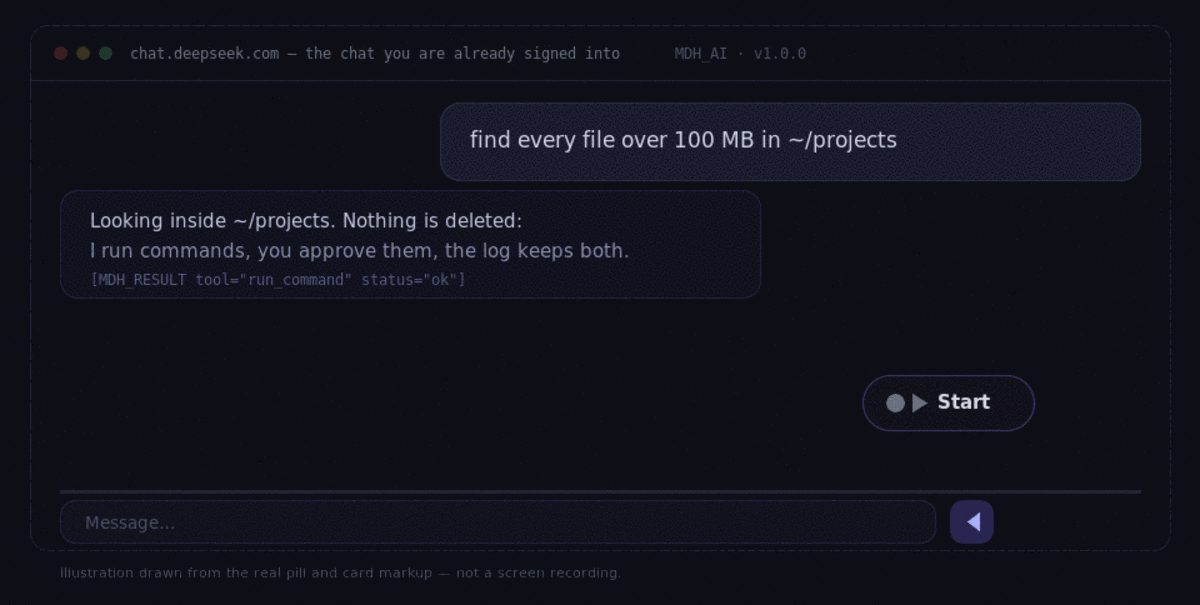
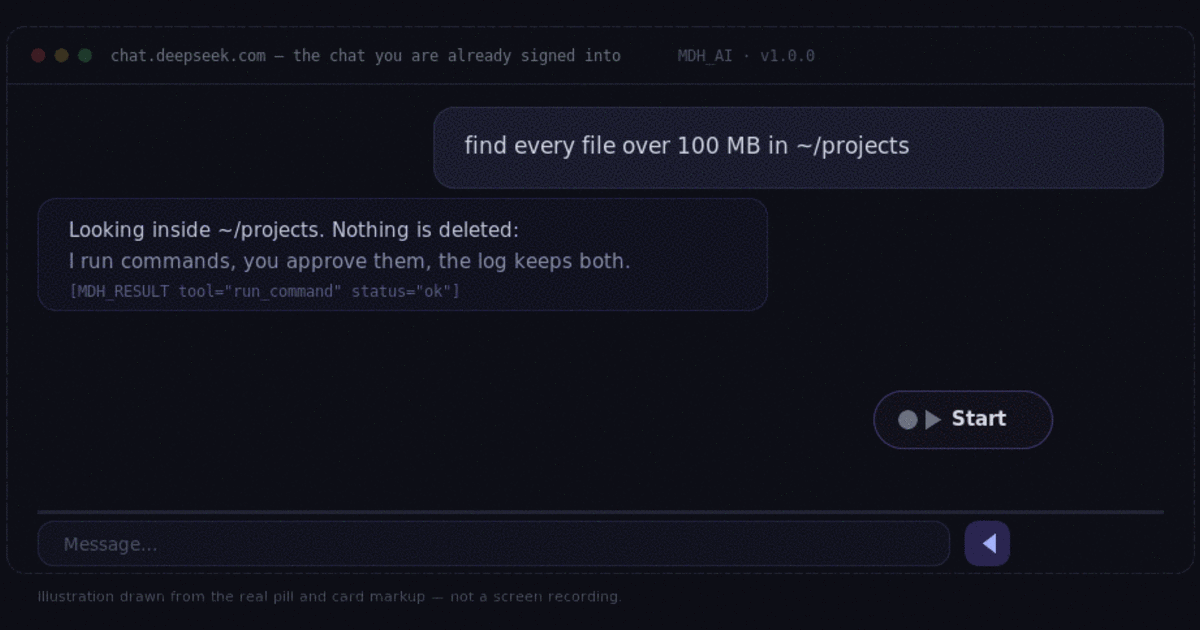
site: put the repository art on the landing page
npm run art also writes site/hero.gif, site/approval-card.png and
site/og.png, so the page shows the same pictures the README does without
asking another host for one. The small loop is scaled frame by frame
before stacking; re-optimising the finished GIF coalesced it back into
full frames and produced 362 KB for a 760 px image.

Two real bugs fell out of wiring it up:

- the link preview was 1200x605, not 1200x630: resized to the width and
  then asked to crop a box it could not fill, so every scraper re-cropped
  it from wherever it liked.
- the README still advertised 283 tests and 11,300 source lines. It says
  290 and 11,333 now, and the release checklist asks a human to check
  that number, because no test can count the suite it is part of.

Site copy: the approval card lists all three lifetimes, and the page
says fifteen builtin tools, which is how many there are.

diff --git a/site/index.html b/site/index.html
@@ -36,7 +36,7 @@
   "featureList": [
     "Eight AI platforms: ChatGPT, Claude, Gemini, DeepSeek, Kimi, Qwen, GLM, Grok",
     "Chrome, Brave and Firefox",
-    "Thirteen builtin Linux tools and any MCP server",
+    "Fifteen builtin Linux tools and any MCP server",
     "Approval card on every write and every command",
     "Path allowlist with symlink resolution",
     "Hash-chained audit log"
@@ -130,6 +130,9 @@
   @media (max-width: 760px) { .two { grid-template-columns: 1fr; } }
   @media (prefers-reduced-motion: reduce) { html { scroll-behavior: auto; } }
 
+  .shot { margin: 26px 0 0; }
+  .shot img { width: 100%; height: auto; display: block; border: 1px solid #23233a; border-radius: 12px; }
+  .shot figcaption { margin-top: 10px; font-size: 12px; color: #6b7280; }
   .patch-wrap { display: grid; grid-template-columns: minmax(220px, 320px) 1fr; gap: 28px; align-items: center; margin-top: 18px; }
   .patch { width: 100%; height: auto; max-width: 320px; display: block; }
   .patch text { font-variant-numeric: tabular-nums; }
@@ -150,6 +153,11 @@
     <a class="btn" href="https://github.com/MDHojayfa/MDH_AI/blob/main/docs/MANUAL.md">Read the manual</a>
   </div>
   <p class="meta">Linux · Chrome 116+ · Brave · Firefox 140+ · MIT</p>
+  <figure class="shot">
+    <img src="hero.gif" width="760" height="383" alt="Five frames of the chat page: the model asks for a shell command, the approval card appears on the chat page, you allow it once, the command runs, and the audit line is written.">
+    <figcaption>Drawn from the extension's own markup, frame by frame — an illustration of the flow, not a screen
+      recording.</figcaption>
+  </figure>
 </header>
 
 <main class="wrap">
@@ -171,7 +179,7 @@
 
   <section id="what">
     <h2>What it can actually do</h2>
-    <p class="sub">Thirteen builtin tools on this machine, plus every MCP server you already run.</p>
+    <p class="sub">Fifteen builtin tools on this machine, plus every MCP server you already run.</p>
     <div class="grid">
       <div class="card">
         <h3>Files</h3>
@@ -191,7 +199,8 @@
       <div class="card">
         <h3>Approval</h3>
         <p>Every write and every command stops at a card that shows the parsed request, not the model's prose.
-          Deny, allow once, or allow for the session.</p>
+          Deny, allow once, or allow for the rest of the run, the session, or the site — the longest of the three
+          is the one you have to pick on purpose.</p>
       </div>
       <div class="card">
         <h3>Guards</h3>

diff --git a/CHANGELOG.md b/CHANGELOG.md
@@ -6,11 +6,18 @@ Format: [Keep a Changelog](https://keepachangelog.com/). Versioning: [SemVer](ht
 
 First release. One script, one extension, eight platforms, no API key.
 
-**What ships:** 288 tests · `release/mdh-ai-{chrome,firefox}-1.0.0.zip` · 0 runtime dependencies ·
+**What ships:** 290 tests · `release/mdh-ai-{chrome,firefox}-1.0.0.zip` · 0 runtime dependencies ·
 `docs/RELEASE.md` is the checklist that was followed.
 
 ### Added
 
+- **The landing page carries the same art, from its own folder.** `npm run art` now also writes `site/hero.gif`
+  (760 px, 88 KB), `site/approval-card.png` and `site/og.png`, so the page never requests an image from another
+  host. The loop sits under the headline with a caption saying what it is, and the approval card's copy on the page
+  lists all three lifetimes instead of only the session.
+- **The link preview was the wrong shape.** `assets/social.png` was 1200×605 — resized to fit the width and then
+  asked to crop to a 630-tall box it could not fill — so every scraper re-cropped it from wherever it liked. It is
+  generated at exactly 1200×630 now, and both art tests and the site test check the size.
 - **`npm run verify` works from a clean checkout.** It weighed the source before building the zip, so the
   README's KB quote had nothing to compare against and the whole run failed with "A budget is broken". The order
   is now build → package → weigh → test, and an unbuilt bundle is reported as unmeasured rather than over budget.
@@ -190,7 +197,7 @@ First release. One script, one extension, eight platforms, no API key.
   Firefox, the permission justification table a reviewer asks for, and a list of claims not to publish.
 - **A runtime switch for the chatter** (`Advanced → Mission chatter`) that persists per profile and hides
   only the jokes — the issue strip, the share button and every real status line stay put.
-- **288 tests**, a build that fails on manifest invariants, and `web-ext lint` at zero errors.
+- **290 tests**, a build that fails on manifest invariants, and `web-ext lint` at zero errors.
 
 ### Security
 

diff --git a/README.md b/README.md
@@ -9,7 +9,7 @@ The chat you are already signed into can read, write, run and search on your Lin
 one approval per step, one hash-chained log, no API key anywhere.</p>
 
 <p>
-<img alt="tests" src="https://img.shields.io/badge/tests-283%20passing-34d399?style=flat-square">
+<img alt="tests" src="https://img.shields.io/badge/tests-290%20passing-34d399?style=flat-square">
 <img alt="runtime dependencies" src="https://img.shields.io/badge/runtime%20dependencies-0-6d5efc?style=flat-square">
 <img alt="extension size" src="https://img.shields.io/badge/extension-140%20KB-8b5cf6?style=flat-square">
 <img alt="Chrome and Brave" src="https://img.shields.io/badge/Chrome%20%7C%20Brave-116%2B-4285F4?style=flat-square">
@@ -121,8 +121,8 @@ not marketing: [`docs/KNOWN-LIMITS.md`](docs/KNOWN-LIMITS.md).
 |---|---|
 | extension | **140 KB** zipped · 401 KB unpacked · 40 files |
 | host | **~70 ms** to ready · **55 MB** resident · 0 npm dependencies |
-| source | 11,300 lines, tests included |
-| tests | **283**, run with `node --test tests/*.test.mjs` |
+| source | 11,333 lines, tests included |
+| tests | **290**, run with `node --test tests/*.test.mjs` |
 | budgets | 300 KB zip · 80 MB RSS · 1,500 ms startup · 0 dependencies — a build fails when one is crossed |
 
 `npm run weigh` prints that table on your machine, compares the prose in the docs against the real artifact, and

diff --git a/docs/RELEASE.md b/docs/RELEASE.md
@@ -20,6 +20,7 @@ The README art is optional and needs ImageMagick, so it is not in `verify`:
 
 ```bash
 npm run art        # assets/hero.gif, terminal.gif, approval-card.png, social.png
+                   # + site/hero.gif, site/approval-card.png, site/og.png
 ```
 
 Regenerate it when the pill's labels or the install output change, so the illustrations keep matching the product
@@ -30,7 +31,7 @@ Expected shape of a good run:
 
 | Check | Where it comes from | Expected |
 |---|---|---|
-| tests | `node --test tests/*.test.mjs` | all passing, ~288 |
+| tests | `node --test tests/*.test.mjs` | all passing, ~290 |
 | tiers | `npm run build` | `dist/chrome`, `dist/firefox`, manifest rules |
 | bundles | `npm run package` | `release/mdh-ai-{chrome,firefox}-1.0.0.zip` |
 | lint | `npx web-ext lint` | 0 errors, 1 known warning |
@@ -72,6 +73,8 @@ source of truth for support questions, and the README links it.
 - [ ] a deliberate failure produces a report you would be willing to paste in public
 - [ ] the privacy page and `docs/SECURITY.md` still describe the same product
 - [ ] `CHANGELOG.md` top section matches the tag
+- [ ] the test count in the README badge, the numbers table and `CHANGELOG.md` matches what `npm test` printed —
+      nothing checks this one automatically, and it has drifted twice
 
 ## 4. If something is wrong after release
 

diff --git a/docs/MEDIA.md b/docs/MEDIA.md
@@ -44,6 +44,11 @@ states and buttons the extension renders.
 | `assets/approval-card.png` | the approval card at 960 px: command, folder, reason, three lifetimes | README features |
 | `assets/social.png` | 1200×630 link-preview card, cropped from frame 1 | Open Graph / link unfurls |
 
+`npm run art` also writes three copies for the landing page, so `site/` never asks another host for an image:
+`site/hero.gif` (760 px, 88 KB), `site/approval-card.png` (the still, unchanged) and `site/og.png` (the social card,
+under the name `site/index.html` already points its `og:image` at). `tests/art.test.mjs` checks that the page uses
+them, that the loop stays under 150 KB, and that the Open Graph image is exactly 1200×630.
+
 Two rules, and the first one is the one that gets broken elsewhere:
 
 1. **An illustration is labelled as one.** Every frame carries *"Illustration drawn from the real pill and card
